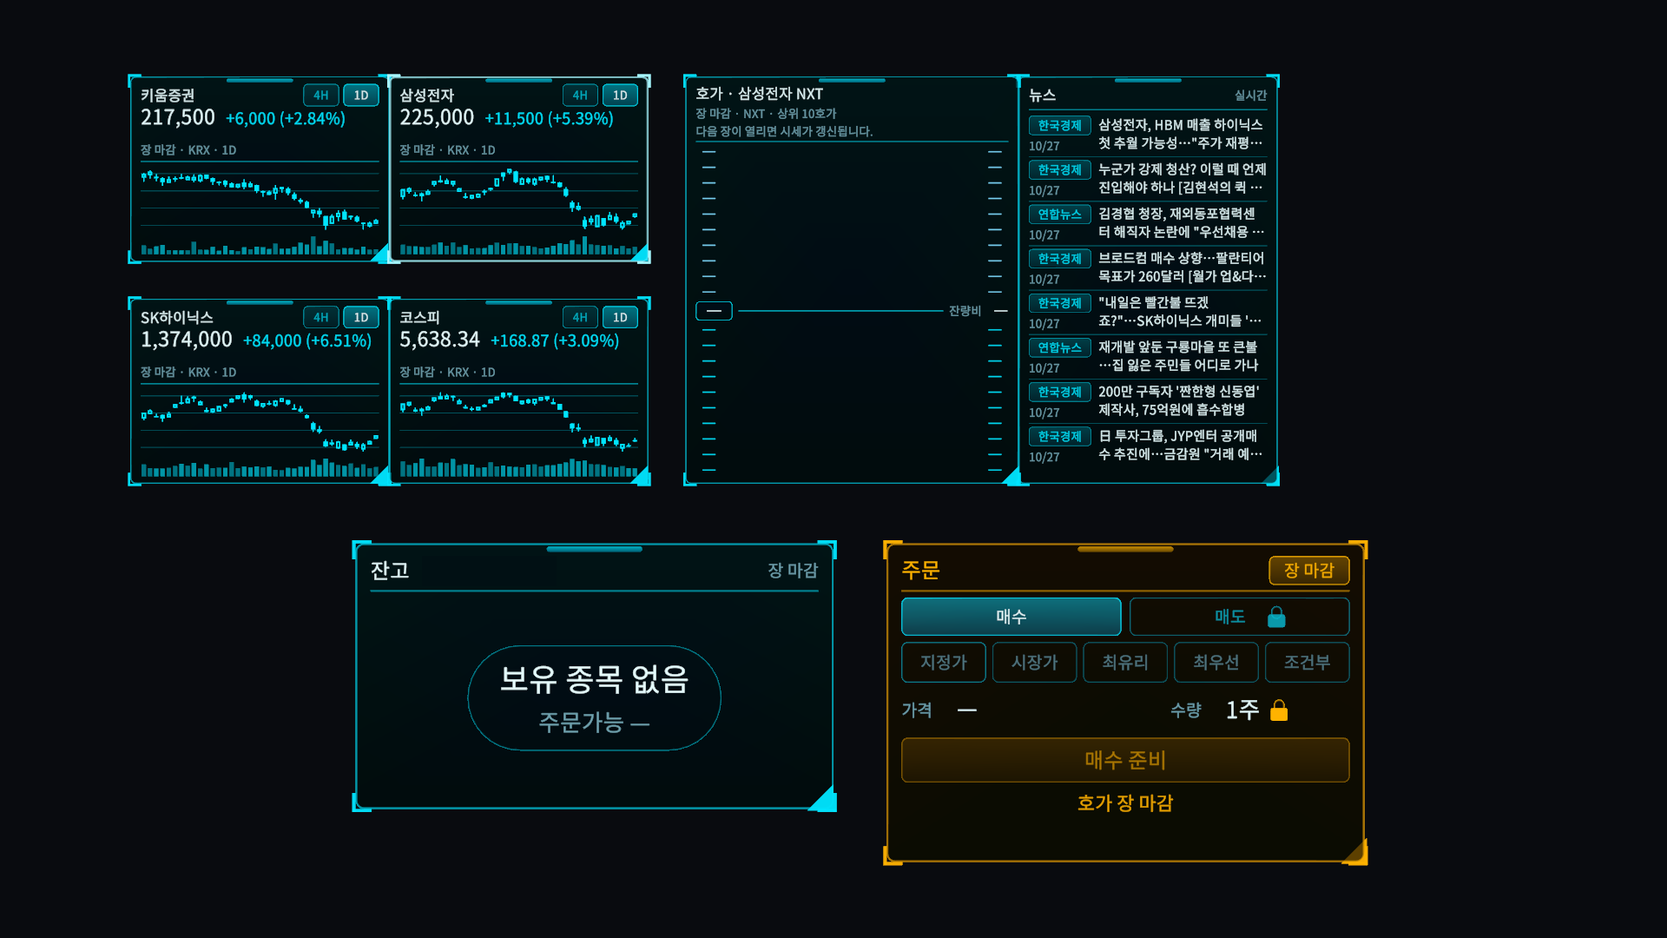
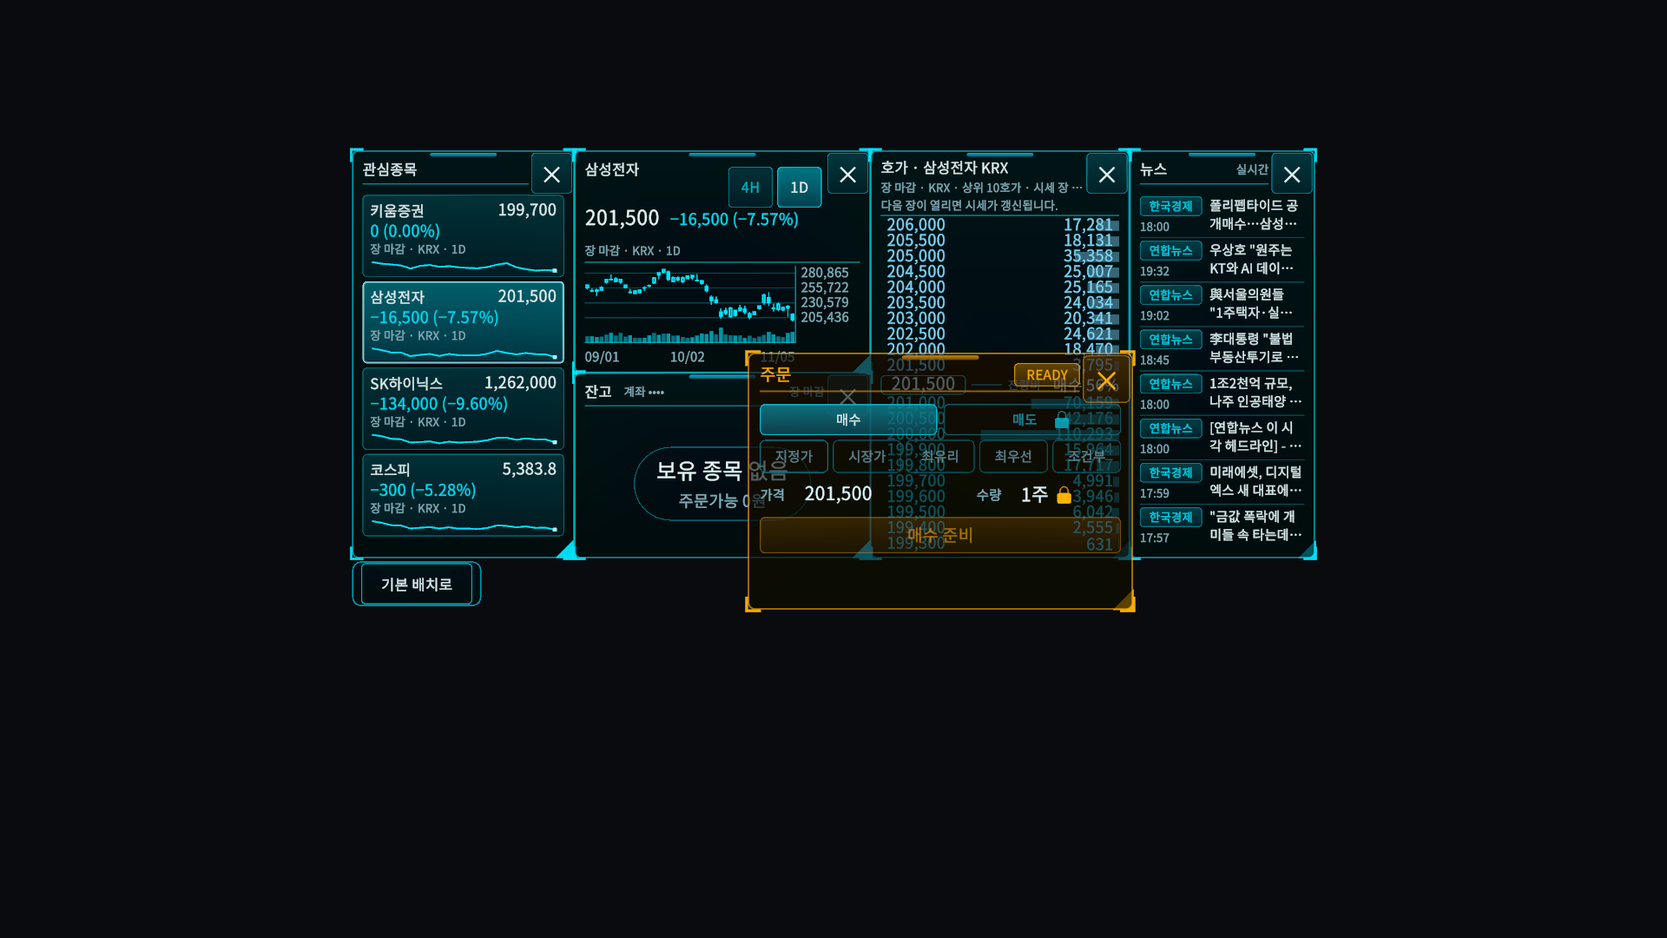
Document the comfort pass and refresh the live capture

diff --git a/quest/Assets/SpatialTrading/Editor/SpreadCapture.cs b/quest/Assets/SpatialTrading/Editor/SpreadCapture.cs
@@ -18,10 +18,11 @@ namespace SpatialTrading.Editor
     /// (not -batchmode, so cameras render) with <c>-executeMethod SpatialTrading.Editor.SpreadCapture.Run</c> and the
     /// gateway pairing token in the <c>SPATIAL_PAIRING_TOKEN</c> environment variable. It opens TraderSpread.unity, enters
     /// Play mode, waits for the gateway's data, drives states (a)–(g) through the <see cref="SpreadWorkspace"/> API, renders
-    /// each to a 1920×1080 PNG in artifacts/trader-spread/ and exits. The token stays in the process environment, which
+    /// each to a 1920×1080 PNG in artifacts/trader-spread-comfort/ and exits. The token stays in the process environment, which
     /// <see cref="MarketDataSession"/> reads ahead of EditorPrefs in the editor: it is never logged and never written to
     /// EditorPrefs or any file, so a killed or hung editor leaves nothing behind. Hand gestures (flick, palm tray, corner
-    /// drag) are not exercised here.
+    /// drag) are not exercised here. With <c>SPATIAL_CAPTURE_REDACT=1</c> the balance panel's account text is replaced by
+    /// "계좌 ••••" before every render; the image committed to docs must come from that mode.
     /// </summary>
     [InitializeOnLoad]
     public static class SpreadCapture
@@ -45,7 +46,10 @@ namespace SpatialTrading.Editor
         /// <summary>Stand-in for passthrough: a dark room tone so the translucent panels read.</summary>
         public static readonly Color Backdrop = new Color(0.035f, 0.045f, 0.058f, 1f);
 
-        private static string OutputDirectory => Path.GetFullPath(Path.Combine(Application.dataPath, "../../artifacts/trader-spread"));
+        private static string OutputDirectory => Path.GetFullPath(Path.Combine(Application.dataPath, "../../artifacts/trader-spread-comfort"));
+        public const string RedactVariable = "SPATIAL_CAPTURE_REDACT";
+        public const string RedactedAccountText = "계좌 ••••";
+        private static bool Redact => Environment.GetEnvironmentVariable(RedactVariable) == "1";
 
         private static double _stageAt;
         private static bool _resumed;
@@ -124,7 +128,6 @@ namespace SpatialTrading.Editor
             {
                 var workspace = Object.FindFirstObjectByType<SpreadWorkspace>();
                 if (workspace == null || workspace.Market == null) return;
-                var tray = Object.FindFirstObjectByType<PalmTray>();
                 var elapsed = now - _stageAt;
                 switch (_stage)
                 {
@@ -158,10 +161,10 @@ namespace SpatialTrading.Editor
                     case 7: if (elapsed > 1) { Capture(workspace, "d-chart-large", "잔고를 치우고 삼성전자 차트를 8×10칸으로: 봉+거래량+가격·시간축"); Next(); } break;
                     case 8: if (elapsed > 0) { workspace.Reset(); workspace.Dismiss(PanelId.News); Next(); } break;
                     case 9: if (elapsed > 0.15) { Capture(workspace, "e0-news-flying", "뉴스 치우는 중 (0.15 s: 날아가며 흐려짐)"); Next(); } break;
-                    case 10: if (elapsed > 0.6) { if (tray != null) tray.Pin(); Next(); } break;
-                    case 11: if (elapsed > 0.5) { Capture(workspace, "e-news-dismissed", "뉴스 치운 직후, 트레이(T)에 뉴스 아이콘"); Next(); } break;
+                    case 10: if (elapsed > 0.6) { Next(); } break;
+                    case 11: if (elapsed > 0.5) { Capture(workspace, "e-news-dismissed", "뉴스 치운 직후, 독에 뉴스 아이콘"); Next(); } break;
                     case 12: if (elapsed > 0) { workspace.Restore(PanelId.News); Next(); } break;
-                    case 13: if (elapsed > 0.8) { Capture(workspace, "f-news-restored", "트레이에서 뉴스 되살림"); Next(); } break;
+                    case 13: if (elapsed > 0.8) { Capture(workspace, "f-news-restored", "독에서 뉴스 되살림"); Next(); } break;
                     case 14: if (elapsed > 0) { workspace.Reset(); Next(); } break;
                     case 15: if (elapsed > 1) { Capture(workspace, "g-reset", "R 리셋 후 기본 배치"); Next(); } break;
                     default:
@@ -188,6 +191,7 @@ namespace SpatialTrading.Editor
         private static void Capture(SpreadWorkspace workspace, string name, string note)
         {
             Canvas.ForceUpdateCanvases();
+            if (Redact) RedactAccount(workspace);
             var go = new GameObject("Capture eye");
             var camera = go.AddComponent<Camera>();
             var texture = new RenderTexture(Width, Height, 24, RenderTextureFormat.ARGB32, RenderTextureReadWrite.sRGB) { antiAliasing = 8 };
@@ -224,6 +228,22 @@ namespace SpatialTrading.Editor
                 Object.DestroyImmediate(image);
             }
             Shots.Add(Describe(workspace, name + ".png", note));
+        }
+
+        /// <summary>Replaces the balance panel's account text just before a render; the next panel render restores it.</summary>
+        private static void RedactAccount(SpreadWorkspace workspace)
+        {
+            foreach (var panel in workspace.Panels)
+            {
+                if (panel.Id != PanelId.Balance) continue;
+                foreach (var text in panel.GetComponentsInChildren<TMP_Text>(true))
+                {
+                    if (text.name != "Account") continue;
+                    text.text = RedactedAccountText;
+                    text.ForceMeshUpdate();
+                }
+            }
+            Canvas.ForceUpdateCanvases();
         }
 
         // Honesty labels and headers only; the account line is never read.

diff --git a/docs/DESIGN_SYSTEM.md b/docs/DESIGN_SYSTEM.md
@@ -1,18 +1,25 @@
 # Spatial trading design system
 
-Status: initial design iteration implemented and simulator-reviewed, 2026-09-18. This adapts Meta's official guidance to an immersive Unity application. It is not a claim of complete platform accessibility or hardware compliance.
+Status: initial design iteration implemented and simulator-reviewed, 2026-09-18; the guideline table was rewritten for the trader spread comfort pass on 2026-11-05. This adapts Meta's and Apple's official guidance to an immersive Unity application. It is not a claim of complete platform accessibility or hardware compliance, and nothing here has been verified on a Quest 3 headset.
 
 ## Source and decisions
 
-| Official source, accessed 2026-09-18 | Application decision | Verification |
+The numbers come from the [comfort design](superpowers/specs/2026-11-05-spread-comfort-design.md) §2. Where a guideline figure is not a measured value of this app, the last column says what actually checks it. Apple links point at the HIG index (the section is named in the link text); Meta links are the section pages under developers.meta.com/horizon/design. Sources were read by the design's author in 2026-11 except where the design itself says otherwise (the palm-gesture / system menu overlap is from general knowledge, not a Meta page).
+
+| Guideline (source) | Application decision | Verification |
 |---|---|---|
-| [Meta design overview](https://developers.meta.com/horizon/design/) | Spatial focus, independent financial capabilities and progressive disclosure remain the organizing principles. | Default scene shows one selected instrument and a reachable control dock. |
-| [Hands: Comfort and design principles](https://developers.meta.com/horizon/design/hands/) | Frequent controls are near the body; use standard poke, ray and grab, with controller alternatives. | Dock is 0.57 m forward and 0.38 m below head level; human reach/arm fatigue remains untested. |
-| [Display: depth and comfort](https://developers.meta.com/horizon/design/display/) | Keep sustained reading surfaces at least 0.5 m away; main chart starts near 1 m. | Center-distance bounds are 0.5–1.8 m; wearer may still approach a world-stable surface. These bounds do not guarantee comfort. |
-| [Buttons](https://developers.meta.com/horizon/design/buttons/) | Short action labels, generous hit targets, visible hover/press/selection. | Dock controls are 55–62 authored mm high; compare separately with Meta's 48 dp direct-touch target guidance, not an assumed dp-to-mm conversion. |
-| [Fonts and icons](https://developers.meta.com/horizon/design/fonts-icons/) | Strong hierarchy: instrument, price, comparison, status. Use readable Korean Noto glyphs; no decorative icon-only primary actions. | Inspect Korean line boxes, clipping and contrast in compositor captures. |
-| [Accessibility](https://developers.meta.com/horizon/design/accessibility/) | Values and text labels accompany colors; focus/selection also changes border thickness. | Check contrast, alternate input and minimum size; OS text scaling and screen-reader integration are not yet implemented for the Unity world-space canvas. |
-| [Panels](https://developers.meta.com/horizon/design/panels/) | Distinct manipulation affordance and on-demand related content; avoid crowding the primary view. | Custom world-space components are not Horizon system panels; system-panel dp dimensions are not copied as world-space requirements. |
+| Hand-pressed panels at 42-46 cm, ray-pointed panels at 0.8-3 m, avoid 0.5-0.8 m ([Meta hands UI best practices](https://developers.meta.com/horizon/design/hands/)) | 주문 panel on a hand plane 0.45 m ahead at 0.7x scale (about 315 x 210 mm); the other five panels on an eye plane 1.10 m ahead. | Layout unit tests and Validate bounds; seated arm comfort is untested. |
+| Long reading at 1 m or more, slightly below eye level ([Meta display](https://developers.meta.com/horizon/design/display/), [Apple HIG Eyes](https://developer.apple.com/design/human-interface-guidelines)) | Reading panels at 1.10 m, centred about -18 to +10 degrees vertically (a little below the eyes). | Layout tests; headset reading is untested. |
+| Keep important content in front, avoid head turns, fewer windows ([Apple HIG Spatial layout and Windows](https://developer.apple.com/design/human-interface-guidelines), [Meta Comfort](https://developers.meta.com/horizon/design/)) | Six panels instead of eight (관심종목, one big chart, 잔고, 호가, 뉴스, 주문) within about +-30 degrees; 호가 just right of straight ahead. | Layout tests; wearer view untested. |
+| Touch targets of 48 dp (about 22 mm, 2.5-3 degrees), 12 mm between finger targets ([Meta hands UI best practices](https://developers.meta.com/horizon/design/hands/)); Apple 60 pt ([HIG Eyes](https://developer.apple.com/design/human-interface-guidelines)) | Every button and the corner grab area is at least 55 mm (1D/4H toggles 60 x 55 mm), including the close x and the dock buttons; the 1D/4H toggles sit clear of the top-bar grab strip. | Validate checks every button against 55 mm and against the ray-grab strip; dp-to-mm is not assumed. |
+| Hover, pressed and a short sound on success ([Meta hands UI best practices](https://developers.meta.com/horizon/design/hands/), [Apple Playing audio](https://developer.apple.com/design/human-interface-guidelines)) | Hover fills the button with a pale cyan glow and brightens the border; press sinks and brightens; a synthesized tick plays on every successful press. | Unit tests for state and sound path; sound not heard on device. |
+| Do not use the palm / wrist for app content; offer non-gesture alternatives ([Apple HIG Gestures](https://developer.apple.com/design/human-interface-guidelines), [Meta hands gesture design](https://developers.meta.com/horizon/design/hands/), both Accessibility pages) | An always-visible dock (dismissed-panel icons and 기본 배치로) replaces the palm tray, which is off by default; every panel has a x close button on the same path as the flick. | Unit tests; false-trigger behavior untested on device. |
+| Sustained text contrast of at least 4.5:1 ([Meta Accessibility](https://developers.meta.com/horizon/design/accessibility/)) | Muted text is #86BAC6 (it was #6FA3B0, about 4.6:1 on a bright wall); numeric signs and labels carry meaning besides color. | Contrast calculation; passthrough lighting untested. |
+| Let the user recenter at any time ([Meta Head](https://developers.meta.com/horizon/design/)) | The existing tracking-origin listener re-places the spread in front of the headset after a Quest system recenter. | Code path only; headset check pending. |
+
+## Earlier iteration
+
+The first iteration (2026-09-18) cited the following pages, which still apply as general principles: [design overview](https://developers.meta.com/horizon/design/), [Buttons](https://developers.meta.com/horizon/design/buttons/), [Fonts and icons](https://developers.meta.com/horizon/design/fonts-icons/) and [Panels](https://developers.meta.com/horizon/design/panels/). Its dock numbers (0.57 m forward, 0.38 m below) described the retired Focus shell. Custom world-space components are not Horizon system panels; system-panel dp dimensions are not copied as world-space requirements. OS text scaling and screen-reader integration are not implemented for the Unity world-space canvas.
 
 ## Visual language
 

diff --git a/docs/INTERACTION_MODEL.md b/docs/INTERACTION_MODEL.md
@@ -27,32 +27,40 @@ Quest 3 eye tracking is not an input capability. “Selected visual context” m
 
 ## Trader spread workspace (current scene)
 
-`TraderSpread` replaces the Focus picker. Eight flat panels (three stock charts, KOSPI chart, order book, news, balance, order) sit on a grid in two planes: an eye plane about 1.10 m ahead and a lower hand plane about 0.60 m ahead. Panels never pitch or roll; only yaw follows the user. Gestures change presentation only and never touch order state, except that dismissing the order panel cancels a prepared ticket.
+`TraderSpread` replaces the Focus picker. Six flat panels sit on a grid in two planes within about ±30° of straight ahead: 관심종목 (watchlist: 키움증권, 삼성전자, SK하이닉스, 코스피, each with price, 전일대비, a status label and a 20-day mini chart), one big chart for the selected instrument (1D / 4H), 잔고, 호가 and 뉴스 on the eye plane about 1.10 m ahead, and 주문 on a hand plane about 0.45 m ahead at 0.7× scale (the order panel is poked with a finger; the eye plane is read and ray-pointed). Panels never pitch or roll; only yaw follows the user. Gestures change presentation only and never touch order state, except that dismissing the order panel cancels a prepared ticket. The order panel's controls are the 유형 (order type) buttons, 매수 준비 and 확인; 확인 sends nothing, 매도 stays locked, and there is no 취소 button. Layout numbers are in the [comfort design](superpowers/specs/2026-11-05-spread-comfort-design.md).
 
 | Intent | Hand / controller | Editor backup |
 | --- | --- | --- |
 | Move | Grab the top bar or body; on release the panel snaps to the grid in 0.12 s | Mouse drag |
-| Resize | Grab the corner handle (bottom-right, cyan; amber on the order panel); size changes in whole grid cells and snaps on release. A chart's detail follows its size (line, candles, candles with axes) | Mouse drag on the handle |
-| Dismiss | Flick the panel (about 1.2 m/s over 0.15 m); it flies off and fades with a short whoosh | Fast mouse drag |
-| Restore | Palm up for 0.4 s shows the tray; pull an icon out 0.1 m to restore that panel. The tray hides after 0.6 s without the palm | `T`, or controller Y button, pins the tray ahead of the head |
-| Reset | "기본 배치로" at the end of the tray restores the default layout | `R` |
-| Select chart | Poke or ray on a chart; the book and order panels follow the selection | `1`-`4` select the charts; click |
+| Resize | Grab the corner handle (bottom-right, cyan; amber on the order panel; 55 mm grab area); size changes in whole grid cells and snaps on release. The chart's detail follows its size (line, candles, candles with axes) | Mouse drag on the handle |
+| Dismiss | Press the × at the right end of the panel's top bar, or flick the panel (about 1.2 m/s over 0.15 m); both take the same path: it flies off and fades with a short whoosh | Fast mouse drag (the × is a canvas button) |
+| Restore | Press the panel's icon in the always-visible dock (a thin bar under the top row's left end) | Click the icon (dock buttons have colliders) |
+| Reset | 기본 배치로 at the end of the dock | `R`, or click it in the dock |
+| Select instrument | Poke or ray on a 관심종목 row; the big chart, 호가 and 주문 follow | `1`-`4` select 키움증권, 삼성전자, SK하이닉스, 코스피; click a row |
 
-Editor keys: `T` tray, `R` reset layout, `1`-`4` select chart. Without an XR device the workspace follows the camera until it has held still for 10 frames or a drag starts, then pins once.
+Every control has a 55 mm target (checked by the Validate step), a cyan hover glow and press feedback, and a short tick sound on a successful press. The palm tray is off by default so a palm-up gesture cannot collide with the Quest system menu; its code remains as a dev aid (`T`, or controller Y, pins the tray ahead of the head) and palm detection can be switched on in the component. Without an XR device the workspace follows the camera until it has held still for 10 frames or a drag starts, then pins once. After a Quest system recenter the existing tracking-origin listener places the spread in front of the headset again.
 
-The mouse backup cannot press canvas buttons (4H/1D, the order type buttons, 매수 준비 / 확인 / 취소, and the tray's 기본 배치로 button). In an editor without the simulator those need the simulator's controller ray or a headset; `R` and the tray's reset collider still reset the layout.
+Editor keys: `R` reset layout, `1`-`4` select 관심종목 rows, `T` pins the palm tray (only meaningful when the tray is enabled).
+
+The mouse backup can press the dock's buttons and select 관심종목 rows (they have colliders), but it still cannot press the other canvas buttons: 1D / 4H, the 유형 order type buttons, 매수 준비, 확인 and the panels' × close. In an editor without the simulator those need the simulator's controller ray or a headset.
 
 ### Manual headset checks (not provable from the editor)
 
+The spec's headset list ([comfort design §5](superpowers/specs/2026-11-05-spread-comfort-design.md)):
+
+- Seated, press the 0.45 m order panel with a finger: is the arm comfortable?
+- Over a bright presentation-room passthrough: is the text readable?
+- Move panels quickly: is any panel thrown away by accident?
+- After a system recenter (long press of the Meta button): does the spread return in front of you?
+
+Also on the headset:
+
 - Grab a panel's top bar or body, move it and release: it snaps in about 0.12 s and stays flat.
-- Flick-throw a panel: it flies off, fades and whooshes. Throw the order panel during a preview: the preview is cancelled.
+- Flick-throw a panel, and press its ×: both fly off, fade and whoosh. Close the order panel during a preview: the preview is cancelled.
 - Drag the corner handle: the size changes in whole cells and snaps on release.
-- Palm up for 0.4 s shows the tray; pulling an icon out 0.1 m restores its panel; looking away for 0.6 s hides the tray.
-- Controller Y toggles the tray; 기본 배치로 resets the layout.
-- Poke and ray work on 4H/1D, the order type buttons, 매수 준비 / 확인 / 취소, and chart tap-to-select.
-- Recenter at a real seated or standing height.
+- The dock stays visible; pressing an icon restores that panel; 기본 배치로 resets the layout. The palm-up gesture does nothing by default.
+- Poke and ray work on 1D / 4H, the 유형 buttons, 매수 준비, 확인 and 관심종목 row selection; the tick sounds on each press.
 - During market hours: LIVE labels and book depth.
-- Editor without the simulator: canvas buttons need the simulator's controller ray or a headset (the mouse fallback cannot press them).
 
 ## Focus Mode (historical, retired)
 

diff --git a/README.md b/README.md
@@ -23,11 +23,11 @@ A staged mixed-reality trading prototype. Interfaces produce typed actions; comp
 
 ## Trader spread scene
 
-The Unity scene is `TraderSpread` (the only build scene; the old FocusShell picker is retired). It lays out eight flat, front-facing panels: three stock charts, a KOSPI chart, an order book, news, balance and an order panel. Panels can be grabbed, moved on a grid, resized from a corner handle and flicked away; see the [interaction model](docs/INTERACTION_MODEL.md). The order panel only prepares and previews a ticket: nothing is sent and `/v1/orders` still returns 404. Generate the scene with the Unity menu **Spatial Trading → 2. Generate Trader Spread scene** (or `scripts/unity.sh scene`).
+The Unity scene is `TraderSpread` (the only build scene; the old FocusShell picker is retired). It lays out six flat, front-facing panels within about +-30 degrees: a 관심종목 watchlist (키움증권, 삼성전자, SK하이닉스, 코스피, each with price, 전일대비 and a mini chart), one big chart for the selected instrument, 잔고, an order book and news on a 1.10 m eye plane, and the order panel on a 0.45 m hand plane at 0.7x. Panels can be grabbed, moved on a grid, resized from a corner handle, and closed with a x button or a flick; an always-visible dock brings them back. See the [interaction model](docs/INTERACTION_MODEL.md) and the [comfort design](docs/superpowers/specs/2026-11-05-spread-comfort-design.md). The order panel only prepares and previews a ticket: nothing is sent and `/v1/orders` still returns 404. Generate the scene with the Unity menu **Spatial Trading → 2. Generate Trader Spread scene** (or `scripts/unity.sh scene`).
 
 ![Trader spread in the Unity editor (Play mode), live gateway data](docs/images/trader-spread-live.png)
 
-The image is an automated Unity editor Play-mode capture (no XR runtime, camera rendered to PNG) from the live gateway stream while the market was closed, so panels show 장 마감 and empty book levels. The account line is redacted in the image. It is neither a Meta XR Simulator nor a Quest 3 capture.
+The image is an automated Unity editor Play-mode capture (no XR runtime, camera rendered to PNG, `SpreadCapture` in `quest/Assets/SpatialTrading/Editor`) from the live gateway stream, taken on 2026-11-05 after the market closed, so panels show 장 마감 / DELAYED and the order book may be empty. The balance panel's account text is replaced by "계좌 ••••" in this image (`SPATIAL_CAPTURE_REDACT=1`). It is neither a Meta XR Simulator nor a Quest 3 capture, and the headset comfort checks in the [interaction model](docs/INTERACTION_MODEL.md) have not been done.
 
 ## Run the gateway
 

diff --git a/docs/QUEST_SETUP.md b/docs/QUEST_SETUP.md
@@ -144,6 +144,9 @@ These steps need a working Unity license and a valid Kiwoom key (Editor check) o
 
 - Use the Mac's hotspot IP in **both** `GATEWAY_ALLOWED_HOSTS` (restart the gateway) and the headset's `gateway.json` `url`. A wrong Host shows up in the gateway log as `rejected Host: '<ip>'`.
 - Check the talk time against the 20:00 KST NXT close. After 20:00 (and before 08:00) there are no live ticks: the panels show the last NXT values as 장 마감, not 실시간.
+- Check the dock before going on stage: it sits under the left end of the top row and always shows. Dismiss a panel, confirm its icon appears in the dock, press the icon to bring it back, and try 기본 배치로. The palm tray is off by default; do not rely on a palm-up gesture.
+- Press the x on a panel to confirm it closes like a flick (closing 주문 cancels a prepared preview). After a system recenter (long press of the Meta button) the spread should return in front of you.
+- Known open item, during market hours: confirm whether Kiwoom's plain-code daily chart (ka10081 with `005930`) is KRX or 통합. Fetch it with the plain code and with `005930_AL`, and compare both with the KRX official close. Only if the plain-code series is 통합, relabel the chart's "KRX" to "통합". Until then the label stays "KRX"; the 전일대비 now uses the broker's reference price (`reference`), not the difference of two closes. kiwoom-cli and the gateway share one app key, so stop the gateway (or run kiwoom-cli first) so that token reissue does not cut either one off.
 - Turn the team-03 app off during rehearsal and the talk; it shares the Kiwoom key, and a competing session can invalidate the token.
 
 ## Input and layout
